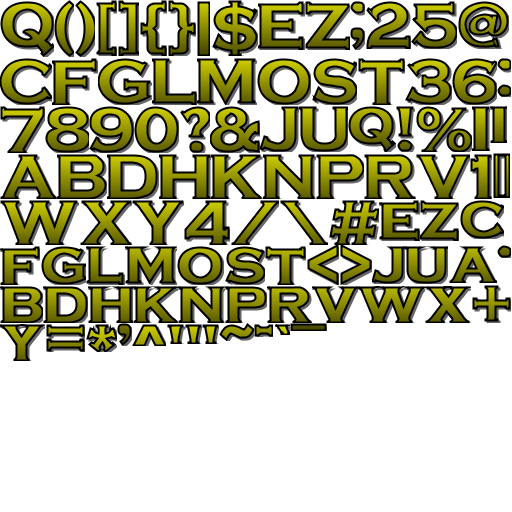
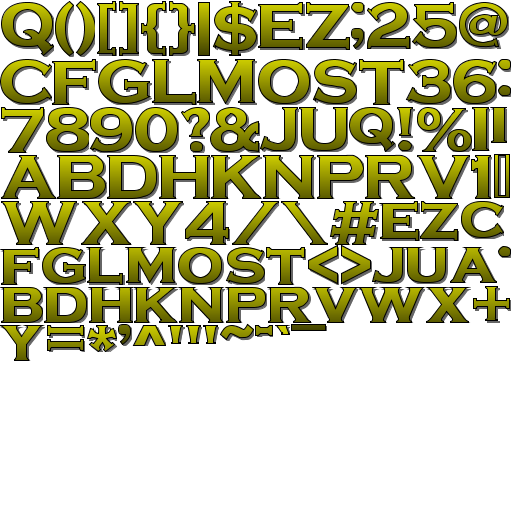
huge progress

Changed region(s): [[0.0, 0.0, 1.0, 0.7188]]

diff --git a/src/de/dakror/wargame/MultisampleConfigChooser.java b/src/de/dakror/wargame/MultisampleConfigChooser.java
@@ -1,0 +1,108 @@
+package de.dakror.wargame;
+
+import javax.microedition.khronos.egl.EGL10;
+import javax.microedition.khronos.egl.EGLConfig;
+import javax.microedition.khronos.egl.EGLDisplay;
+
+import android.opengl.GLSurfaceView;
+import android.util.Log;
+
+/**
+ * from package com.example.gdc11
+ */
+// This class shows how to use multisampling. To use this, call
+//   myGLSurfaceView.setEGLConfigChooser(new MultisampleConfigChooser());
+// before calling setRenderer(). Multisampling will probably slow down
+// your app -- measure performance carefully and decide if the vastly
+// improved visual quality is worth the cost.
+public class MultisampleConfigChooser implements GLSurfaceView.EGLConfigChooser {
+	static private final String kTag = "GDC11";
+	
+	@Override
+	public EGLConfig chooseConfig(EGL10 egl, EGLDisplay display) {
+		mValue = new int[1];
+		
+		// Try to find a normal multisample configuration first.
+		int[] configSpec = { EGL10.EGL_RED_SIZE, 5, EGL10.EGL_GREEN_SIZE, 6, EGL10.EGL_BLUE_SIZE, 5, EGL10.EGL_DEPTH_SIZE, 16,
+		// Requires that setEGLContextClientVersion(2) is called on the view.
+		EGL10.EGL_RENDERABLE_TYPE, 4 /* EGL_OPENGL_ES2_BIT */, EGL10.EGL_SAMPLE_BUFFERS, 1 /* true */, EGL10.EGL_SAMPLES, 2, EGL10.EGL_NONE };
+		
+		if (!egl.eglChooseConfig(display, configSpec, null, 0, mValue)) {
+			throw new IllegalArgumentException("eglChooseConfig failed");
+		}
+		int numConfigs = mValue[0];
+		
+		if (numConfigs <= 0) {
+			// No normal multisampling config was found. Try to create a
+			// converage multisampling configuration, for the nVidia Tegra2.
+			// See the EGL_NV_coverage_sample documentation.
+			
+			final int EGL_COVERAGE_BUFFERS_NV = 0x30E0;
+			final int EGL_COVERAGE_SAMPLES_NV = 0x30E1;
+			
+			configSpec = new int[] { EGL10.EGL_RED_SIZE, 5, EGL10.EGL_GREEN_SIZE, 6, EGL10.EGL_BLUE_SIZE, 5, EGL10.EGL_DEPTH_SIZE, 16, EGL10.EGL_RENDERABLE_TYPE, 4 /* EGL_OPENGL_ES2_BIT */, EGL_COVERAGE_BUFFERS_NV, 1 /* true */, EGL_COVERAGE_SAMPLES_NV, 2, // always 5 in practice on tegra 2
+			EGL10.EGL_NONE };
+			
+			if (!egl.eglChooseConfig(display, configSpec, null, 0, mValue)) {
+				throw new IllegalArgumentException("2nd eglChooseConfig failed");
+			}
+			numConfigs = mValue[0];
+			
+			if (numConfigs <= 0) {
+				// Give up, try without multisampling.
+				configSpec = new int[] { EGL10.EGL_RED_SIZE, 5, EGL10.EGL_GREEN_SIZE, 6, EGL10.EGL_BLUE_SIZE, 5, EGL10.EGL_DEPTH_SIZE, 16, EGL10.EGL_RENDERABLE_TYPE, 4 /* EGL_OPENGL_ES2_BIT */, EGL10.EGL_NONE };
+				
+				if (!egl.eglChooseConfig(display, configSpec, null, 0, mValue)) {
+					throw new IllegalArgumentException("3rd eglChooseConfig failed");
+				}
+				numConfigs = mValue[0];
+				
+				if (numConfigs <= 0) {
+					throw new IllegalArgumentException("No configs match configSpec");
+				}
+			} else {
+				mUsesCoverageAa = true;
+			}
+		}
+		
+		// Get all matching configurations.
+		EGLConfig[] configs = new EGLConfig[numConfigs];
+		if (!egl.eglChooseConfig(display, configSpec, configs, numConfigs, mValue)) {
+			throw new IllegalArgumentException("data eglChooseConfig failed");
+		}
+		
+		// CAUTION! eglChooseConfigs returns configs with higher bit depth
+		// first: Even though we asked for rgb565 configurations, rgb888
+		// configurations are considered to be "better" and returned first.
+		// You need to explicitly filter the data returned by eglChooseConfig!
+		int index = -1;
+		for (int i = 0; i < configs.length; ++i) {
+			if (findConfigAttrib(egl, display, configs[i], EGL10.EGL_RED_SIZE, 0) == 5) {
+				index = i;
+				break;
+			}
+		}
+		if (index == -1) {
+			Log.w(kTag, "Did not find sane config, using first");
+		}
+		EGLConfig config = configs.length > 0 ? configs[index] : null;
+		if (config == null) {
+			throw new IllegalArgumentException("No config chosen");
+		}
+		return config;
+	}
+	
+	private int findConfigAttrib(EGL10 egl, EGLDisplay display, EGLConfig config, int attribute, int defaultValue) {
+		if (egl.eglGetConfigAttrib(display, config, attribute, mValue)) {
+			return mValue[0];
+		}
+		return defaultValue;
+	}
+	
+	public boolean usesCoverageAa() {
+		return mUsesCoverageAa;
+	}
+	
+	private int[] mValue;
+	private boolean mUsesCoverageAa;
+}

diff --git a/src/de/dakror/wargame/Wargame.java b/src/de/dakror/wargame/Wargame.java
@@ -86,6 +86,7 @@ public class Wargame extends Activity implements GLSurfaceView.Renderer, OnTouch
 		instance = this;
 		glView = new GLSurfaceView(this);
 		glView.setEGLContextClientVersion(2);
+		//glView.setEGLConfigChooser(new MultisampleConfigChooser());
 		glView.setRenderer(this);
 		glView.setOnTouchListener(this);
 		gestureDetector = new GestureDetector(this, this);
@@ -165,6 +166,8 @@ public class Wargame extends Activity implements GLSurfaceView.Renderer, OnTouch
 		System.arraycopy(viewProjMatrix, 0, hudMatrix, 0, 16);
 	}
 	
+	int i = 0, j = 0, k = 2, l = 4;
+	
 	@Override
 	public void onDrawFrame(GL10 gl) {
 		if (System.currentTimeMillis() - lastTimestamp >= 1000) {
@@ -181,7 +184,12 @@ public class Wargame extends Activity implements GLSurfaceView.Renderer, OnTouch
 		glClear(GL_COLOR_BUFFER_BIT | GL_DEPTH_BUFFER_BIT);
 		
 		glEnable(GL_DEPTH_TEST);
-		
+		final int[] d = { GL_LESS, GL_LEQUAL, GL_EQUAL, GL_GEQUAL, GL_GREATER };
+		final int[] A = { GL_ZERO, GL_ONE, GL_SRC_ALPHA, GL_DST_ALPHA, GL_ONE_MINUS_SRC_ALPHA, GL_ONE_MINUS_DST_ALPHA };
+		glDepthFunc(d[i]);
+		glEnable(GL_BLEND);
+		glBlendFunc(A[k], A[l]);
+		//		final String[] B = { "GL_ZERO", "GL_ONE", "GL_SRC_ALPHA", "GL_DST_ALPHA", "GL_ONE_MINUS_SRC_ALPHA", "GL_ONE_MINUS_DST_ALPHA" };
 		Matrix.setLookAtM(viewMatrix, 0, 0, 0, 1, 0, 0, 0, 0, 1, 0);
 		Matrix.scaleM(viewMatrix, 0, scale, scale, scale);
 		
@@ -196,7 +204,7 @@ public class Wargame extends Activity implements GLSurfaceView.Renderer, OnTouch
 		spriteRenderer.begin(hudMatrix);
 		textRenderer.renderText(-width / 2, height / 2 - 30, 0, 0.5f, "FPS: " + fps, spriteRenderer);
 		textRenderer.renderText(-width / 2, height / 2 - 60, 0, 0.5f, "R: " + map.rendered + " / " + map.all, spriteRenderer);
-		textRenderer.renderText(-width / 2, height / 2 - 90, 0, 0.5f, "E: " + map.rEntities + " / " + map.entities.size, spriteRenderer);
+		textRenderer.renderText(-width / 2, height / 2 - 90, 0, 0.5f, "E: " + map.rEntities + " / " + map.entities.size(), spriteRenderer);
 		
 		textRenderer.setFont(1);
 		textRenderer.renderText(-200, height / 2 - 80, 0, 1f, "$ " + Math.round(money), spriteRenderer);
@@ -222,6 +230,30 @@ public class Wargame extends Activity implements GLSurfaceView.Renderer, OnTouch
 				float dy = y - prevY;
 				
 				if (e.getPointerCount() == prevNum) map.move(dx / scale * 60f / Math.max(fps, 25), dy / scale * 60f / Math.max(fps, 25));
+				break;
+			/*case MotionEvent.ACTION_UP:
+				final String[] B = { "GL_ZERO", "GL_ONE", "GL_SRC_ALPHA", "GL_DST_ALPHA", "GL_ONE_MINUS_SRC_ALPHA", "GL_ONE_MINUS_DST_ALPHA" };
+				final String[] D = { "GL_LESS", "GL_LEQUAL", "GL_EQUAL", "GL_GEQUAL", "GL_GREATER" };
+				if (x < width / 2) {
+					if (y < height / 2) {
+						i++;
+						
+						i %= D.length;
+						System.out.println("DepthFunc: " + D[i]);
+					} else j++;
+				} else {
+					if (y < height / 2) {
+						k++;
+						k %= B.length;
+						System.out.println("srcf: " + B[k]);
+					} else {
+						l++;
+						
+						l %= B.length;
+						System.out.println("dstf: " + B[l]);
+					}
+				}
+				break;*/
 		}
 		
 		prevX = x;

diff --git a/src/de/dakror/wargame/TextRenderer.java b/src/de/dakror/wargame/TextRenderer.java
@@ -43,7 +43,9 @@ public class TextRenderer {
 		HashMap<Character, Glyph> glyphs;
 		int textureId;
 		float textureWidth, textureHeight;
-		int lineHeight;
+		int lineHeight, base;
+		int[] padding = new int[4];
+		int[] spacing = new int[2];
 		
 		Font(String fontFile) {
 			try {
@@ -52,7 +54,15 @@ public class TextRenderer {
 				
 				String line = "";
 				while ((line = br.readLine()) != null) {
-					if (line.startsWith("page ")) {
+					if (line.startsWith("info ")) {
+						String[] p = line.split(" +");
+						String[] padding = p[p.length - 2].substring(8).split(",");
+						for (int i = 0; i < 4; i++)
+							this.padding[i] = Integer.parseInt(padding[i]);
+						String[] spacing = p[p.length - 1].substring(8).split(",");
+						for (int i = 0; i < 2; i++)
+							this.spacing[i] = Integer.parseInt(spacing[i]);
+					} else if (line.startsWith("page ")) {
 						String[] p = line.split(" +");
 						String texture = p[2].substring(6);
 						texture = texture.substring(0, texture.indexOf("\""));
@@ -76,6 +86,7 @@ public class TextRenderer {
 					} else if (line.startsWith("common ")) {
 						String[] p = line.split(" +");
 						lineHeight = Integer.parseInt(p[1].substring(11));
+						base = Integer.parseInt(p[2].substring(5));
 						textureWidth = Integer.parseInt(p[3].substring(7));
 						textureHeight = Integer.parseInt(p[4].substring(7));
 					}
@@ -90,7 +101,6 @@ public class TextRenderer {
 	
 	LinkedList<Font> fonts = new LinkedList<Font>();
 	int font = 0;
-	final float SCALE = 1f;
 	
 	public TextRenderer(String... fonts) {
 		for (String f : fonts)
@@ -106,8 +116,8 @@ public class TextRenderer {
 		Font font = fonts.get(this.font);
 		for (int i = 0; i < text.length(); i++) {
 			Glyph g = font.glyphs.get(text.charAt(i));
-			r.render(x + w + g.offsetX / SCALE * size, y, z, g.width / SCALE * size, g.height / SCALE * size, g.x / font.textureWidth, g.y / font.textureHeight, g.width / font.textureWidth, g.height / font.textureHeight, font.textureId);
-			w += g.advanceX / SCALE * size;
+			r.render(x + w + (g.advanceX - g.width) / 2 * size, y + (font.base - g.height - g.offsetY) * size, z, g.width * size, g.height * size, g.x / font.textureWidth, g.y / font.textureHeight, g.width / font.textureWidth, g.height / font.textureHeight, font.textureId);
+			w += g.advanceX * size;
 		}
 	}
 	
@@ -118,7 +128,7 @@ public class TextRenderer {
 		for (int i = 0; i < text.length(); i++) {
 			Glyph g = font.glyphs.get(text.charAt(i));
 			//h = g.height > h ? g.height : h;
-			w += g.advanceX / SCALE * size;
+			w += g.advanceX * size;
 		}
 		renderText(x - w / 2, y/* - h * size*/, z, size, text, r);
 	}

diff --git a/src/de/dakror/wargame/World.java b/src/de/dakror/wargame/World.java
@@ -19,10 +19,10 @@ package de.dakror.wargame;
 import java.io.BufferedReader;
 import java.io.IOException;
 import java.io.InputStreamReader;
+import java.util.ArrayList;
 import java.util.Iterator;
 
 import com.badlogic.gdx.math.Vector3;
-import com.badlogic.gdx.utils.Array;
 
 import de.dakror.wargame.TextureAtlas.TextureRegion;
 import de.dakror.wargame.TextureAtlas.Tile;
@@ -63,7 +63,7 @@ public class World /*extends PooledEngine*/ {
 	public boolean dirty = true;
 	protected int width, depth;
 	public int rendered, all, rEntities;
-	protected Array<Entity> entities;
+	protected ArrayList<Entity> entities;
 	
 	public static final float SCALE = 0.5f;
 	
@@ -133,7 +133,7 @@ public class World /*extends PooledEngine*/ {
 	}
 	
 	void init() {
-		entities = new Array<Entity>();
+		entities = new ArrayList<Entity>();
 		//		renderables = getEntitiesFor(Family.all(CAnimatedSprite.class, CPosition.class, CFace.class).get());
 		pos = new Vector3(-width / 2 * WIDTH, 0, 0);
 		newPos = new Vector3(pos);
@@ -248,7 +248,7 @@ public class World /*extends PooledEngine*/ {
 		//			float hX = 0, hY = 0;
 		
 		for (int x = 0; x < width; x++) {
-			for (int z = 0; z < depth; z++) {
+			for (int z = depth - 1; z >= 0; z--) {
 				Tile t = Wargame.terrain.getTile(getFile(x, z));
 				if (t == null) continue;
 				TextureRegion tr = t.regions.get(0);
@@ -256,7 +256,7 @@ public class World /*extends PooledEngine*/ {
 				float y1 = pos.y - x * DEPTH / 2 + z * DEPTH / 2;
 				
 				if ((x1 + tr.width * 2048) * scale >= -Wargame.width / 2 && x1 * scale <= Wargame.width / 2 && y1 * scale <= Wargame.height / 2 && (y1 + tr.height * 2048) * scale >= -Wargame.height / 2) {
-					r.render(x1, y1, (pos.z + x * DEPTH / 2) / 1024f, tr.width * 2048, tr.height * 2048, tr.x, tr.y, tr.width, tr.height, 8, tr.texture.textureId);
+					r.render(x1, y1, /*(pos.z + x * DEPTH / 2) / 1024f*/depth - z + x * 1f / depth, tr.width * 2048, tr.height * 2048, tr.x, tr.y, tr.width, tr.height, 8, tr.texture.textureId);
 					rendered++;
 				}
 				all++;

diff --git a/src/de/dakror/wargame/Unit.java b/src/de/dakror/wargame/Unit.java
@@ -179,7 +179,7 @@ public class Unit extends Entity implements Steerable<Vector2> {
 	
 	@Override
 	public float getZ() {
-		return (2 * World.HEIGHT + (pos.x + (huge ? 1 : 0)) * (World.DEPTH * World.SCALE) / 2 + world.getPos().z + World.HEIGHT) / 1024f;
+		return world.depth - z + x * 1f / world.depth + y * 2;//(2 * World.HEIGHT + (pos.x + (huge ? 1 : 0)) * (World.DEPTH * World.SCALE) / 2 + world.getPos().z + World.HEIGHT) / 1024f;
 	}
 	
 	@Override

diff --git a/src/de/dakror/wargame/Building.java b/src/de/dakror/wargame/Building.java
@@ -118,7 +118,7 @@ public class Building extends Entity {
 	
 	@Override
 	public float getZ() {
-		return (y * World.HEIGHT + (x + (huge ? 1 : 0)) * (World.DEPTH * World.SCALE) / 2 + world.getPos().z + World.HEIGHT) / 1024f;
+		return world.depth - z + x * 1f / world.depth + y * 2;//(y * World.HEIGHT + (x + (huge ? 1 : 0)) * (World.DEPTH * World.SCALE) / 2 + world.getPos().z + World.HEIGHT) / 1024f;
 	}
 	
 	@Override

diff --git a/src/de/dakror/wargame/SpriteRenderer.java b/src/de/dakror/wargame/SpriteRenderer.java
@@ -103,7 +103,6 @@ public class SpriteRenderer {
 		elementIndex += 6;
 		
 		boolean useOffset = xOff != 0 && yOff != 0 && innerW != 0 && innerH != 0;
-		
 		if (useOffset) {
 			vertices.put(new float[] { x + xOff, y + yOff + innerH, z, tx, ty, c[0], c[1], c[2], c[3], p });
 			vertexIndex++;
